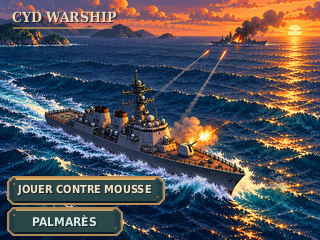
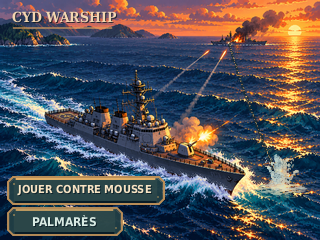
design(GRAPH-ACC-001): rendre riposte et gerbe lisibles dans le composite

diff --git a/design/graph-acc-001/README.md b/design/graph-acc-001/README.md
@@ -1,40 +1,41 @@
-# GRAPH-ACC-001 — Révision 4 : retouche ciblée du tir et de l’impact
+# GRAPH-ACC-001 — Révision 5 : tir et impact réellement relus dans le composite
 
-**Retour PO reçu** : composition historique actée ; titre et boutons OK en principe ; **tir ennemi et impact dans l’eau à corriger**, sans nouvelle exploration.
+**Périmètre strict :** réponse au rejet artistique PO de la révision 4 (`277f38d173e7f75d1f228494092461d45f67d0e2`), directive Pilotage sur la PR #8. La scène, le titre et les deux boutons sont **verrouillés** ; aucun changement de direction artistique globale.
 
-**Statut demandé :** `RETOUR_PO_CIBLE — SCENE_ACTEE — TITRE_OK_EN_PRINCIPE — BOUTONS_OK_EN_PRINCIPE — CORRECTIONS_GRAPHIQUES_APPLIQUÉES — PO_VALIDATION_FINALE_PENDING — PR_DRAFT_NON_MERGED`.
+**Statut :** `CORRECTIF_GRAPHISTE_LIVRE_POUR_REVUE_PO — DESIGN_PREVIEW — ON_DEVICE_UNVERIFIED — PR_DRAFT_NON_MERGED`. Le PO **n'a pas encore validé** cette nouvelle correction.
 
-## Intervention circonscrite
+## Ce qui est modifié
 
-- **Scène** : conserve pixel pour pixel le fond maritime narratif de `872496d73a150dd5a016c219973e5865576b7e04` (original `01_bataille_narrative_320x240.png`). Aucun changement de palette globale, perspective, ciel, navires, nuages, vagues ou tirs alliés.
-- **Titre et boutons** : repris **pixel pour pixel** de la révision 3 (`cabee0d8c4263a8b3599d657aee368afed6fa507`). Zones contrôlées : titre (8,9)-(120,30), commandes (7,176)-(166,205) et (7,207)-(126,237). **10 533 pixels** de ces trois zones contrôlés identiques. Texte et contours inchangés.
-- **Tir ennemi** : suppression du « laser » continu, trop chaud et trop blanc. Point de mise à feu près de la silhouette ennemie `(229,43)` ; déplacement suivant une trajectoire balistique sous-jacente `(229,43) → (278,184)`, mais tracé rendu par une **trace atmosphérique irrégulière très ténue**, quelques reflets cuivrés dispersés et légère fumée. Pas de segments rectilignes graphiques.
-- **Impact manqué** : centre vers `(278,186)`, loin de la coque et dans la mer. Ancienne étoile blanche supprimée au profit d'une **écume discontinue et d'embruns courts**, sur une bande de vague plus sombre et des reflets de l'eau. Couleurs localement mélangées à celles du pixel maritime d'origine ; petites particules à transparence variable, pas de contour régulier ou de sprite découpé.
-- **Grain** : fond historique **inchangé**. Pixelisation toujours à arbitrer par le PO.
+**1. Mise à feu ennemie.** Éclat orangé-blanc contrôlé près de l'armement/silhouette du navire ennemi, vers `(229,43)`. Son échelle reste petite au regard de la distance.
 
-## Livrables
+**2. Trajectoire.** Sillage de fumée sombre bleu-gris et grains cuivrés/ambre par endroits, depuis la bouche jusqu'à l'impact, suivant une légère courbe balistique passant de `(229,43)` vers `(281,184)`. La traînée est **assez matérialisée pour être suivie à l'écran natif**, mais texturée et rompue par l'atmosphère : pas de trait vectoriel uniforme, pas de grand laser blanc.
 
-- `accueil_cyd_warship_320x240.png` — rendu natif 320 × 240, référence de validation esthétique.
-- `accueil_cyd_warship_x4.png` — strict ×4 nearest-neighbor (1280 × 960).
-- `accueil_cyd_warship.svg` — source éditable : fond historique intégré, zones UI vectorielles inchangées, nouvelle couche de riposte indépendante.
-- `effet_riposte_320x240.png` — **couche transparente RGBA isolée** pour retouche ciblée dans Krita/GIMP/Aseprite ; SVG et couche à conserver dans le même dossier.
-- `README.md` — cette note de composition et de contrôle.
+**3. Impact raté dans l'eau.** À droite et au-delà de la proue, vers `(280,187)`, sans contact avec le navire. Une colonne d'eau irrégulière, des embruns lumineux à granularité variable, des éclats de mousse et une dépression sombre se raccordent aux vagues et aux lumières du coucher de soleil. Les couleurs de la gerbe sont dérivées des pixels de la mer historique à cet emplacement ; blancs chauds côté lumière, cyan et bleu-gris sur les bords.
 
-## Avant / après : la zone corrigée uniquement
+Les éléments graphiques s'inscrivent dans **le même plan de profondeur** que les vagues au lieu d'un pictogramme géométrique collé. Aucun aéronef, bateau, animation ou commande ajouté.
 
-| Critère | HEAD précédent | Nouvelle correction |
-|---|---|---|
-| Mise à feu | flash + trait lumineux apparent | flash discret, condensation/particules |
-| Trajectoire | courbe brillante continue | légère traînée décomposée, atmosphère visible au travers |
-| Impact | gerbe blanche en étoile | fines projections irrégulières mêlées à l'écume et aux reflets |
-| Scène, UI | retenues en principe | **strictement préservées** |
+## Preuve d'immuabilité — comparatif avec le HEAD rejeté
 
-Les rectangles tactiles restent (8,177,156,27) et (8,208,114,27) : **aucune modification UX**. Environ 1 060 pixels seulement changent par rapport au précédent PNG ; les retouches se concentrent sur la zone du tir et de la gerbe.
+| Zone / élément | Contrôle |
+|---|---|
+| Scène historique, cadrage, mer, coucher de soleil, navires, tirs amis | Fond historique original `872496d73a150dd5a016c219973e5865576b7e04` préservé, hors seule intervention de riposte |
+| Titre `CYD WARSHIP` | Pixels inchangés par comparaison directe |
+| `JOUER CONTRE MOUSSE`, `PALMARÈS` | Apparence, positions et zones tactiles inchangées |
+| Total zones verrouillées | **10 533 / 10 533 pixels RGB identiques** avec `277f38d` |
+| Pixels modifiés dans le composite | **1 693** pixels (uniquement effet de tir, impact et raccords dans l'eau) |
+| Ancien effet presque invisible | Remplacé par mise à feu contrastée, trace fumée/ambre identifiable, gerbe plus volumétrique et mousse au niveau des vagues |
 
-## Niveau de preuve et réserves
+## Fichiers de revue
+- `accueil_cyd_warship_320x240.png` — **PNG final composite 320 × 240**, référence de jugement PO, image fixe.
+- `accueil_cyd_warship_x4.png` — **1280 × 960**, pixels répétés 4 × 4, nearest-neighbor strict, sans réinterpolation.
+- `effet_riposte_320x240.png` — **calque transparent RGBA** actualisé. Effet local éditable (Krita/GIMP). Ce n'est pas le composite final.
+- `accueil_cyd_warship.svg` — **inchangé par rapport au HEAD précédent** : fond narratif intégré, titre et boutons vectoriels d'origine, référence relative vers `effet_riposte_320x240.png` à conserver à côté du SVG. Le fond reste raster ; les rendus de police SVG peuvent différer du PNG de référence.
+- `README.md` — présente note de revue et limites.
 
-`DESIGN_PREVIEW` uniquement : PNG natif inspecté en aperçu sur ordinateur, génération ×4 par réplication exacte. **Pas de build, pas de test CYD, pas d'estimation empirique du coût mémoire firmware**. L'asset de revue n'est pas un asset runtime.
+Rectangles tactiles **inchangés**, non contractuels : `JOUER CONTRE MOUSSE (8,177,156,27)` ; `PALMARÈS (8,208,114,27)`.
 
-Le fichier SVG conserve des objets texte et des plaques éditables ; comme avant, ses moteurs de rendu peuvent présenter de petites différences par rapport au raster validé : **PNG natif = référence visuelle**. Source SVG liée au PNG transparent externe pour préserver la matière plutôt que lui substituer des formes vectorielles lisses.
+## Validation
 
-**PO : validation artistique finale non acquise. PR #8 à maintenir en brouillon. Pilotage seul responsable de sa revue et de la fusion.**
+Contrôles d'export effectués pour le PNG natif et le zoom ×4 sur poste. La **lisibilité finale à 100 % doit être jugée sur le PNG composite**, non sur le calque isolé. Une production graphique n'est **ni une approbation PO ni un test embarqué**.
+
+**Aucun firmware, compilation Xtensa, mesure RAM/Flash runtime ou test physique CYD.** Aucune fusion de la PR par le Graphiste. L'état de la PR doit rester `DRAFT` jusqu'aux décisions du PO et du Pilotage.
